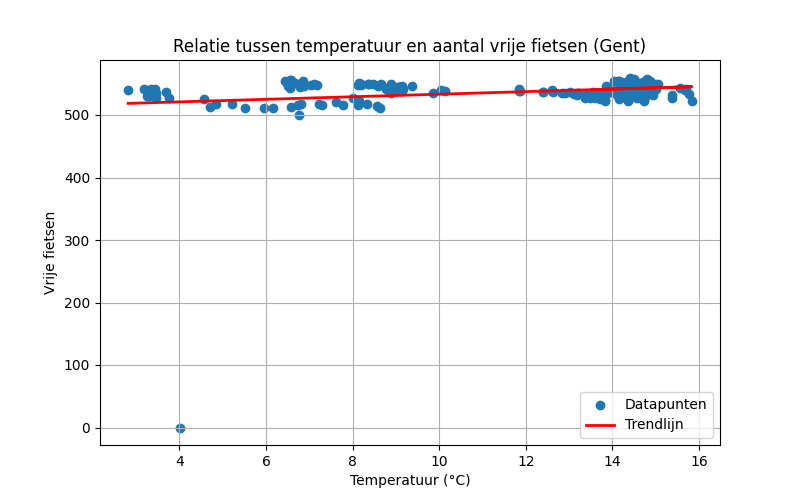
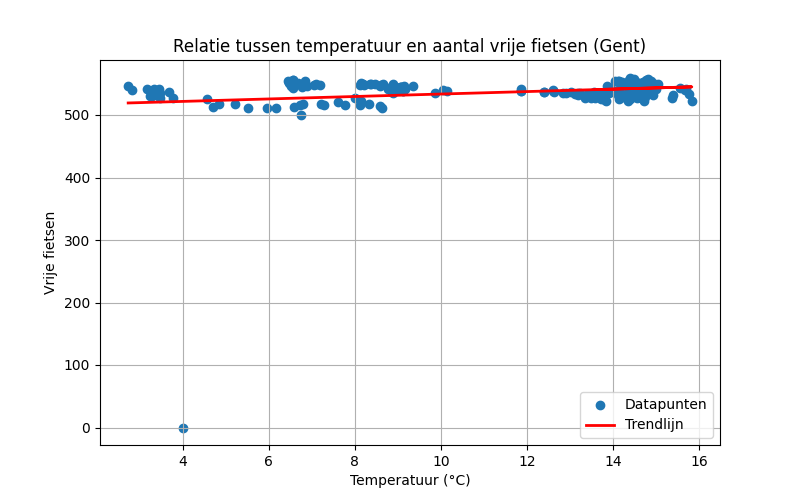
Automatische update 2025-11-17 23:00:11

diff --git a/reports/report.md b/reports/report.md
@@ -1,22 +1,22 @@
 # Data Workflow Rapport
 
-**Gegenereerd op:** 2025-11-17 22:45:07.957110
+**Gegenereerd op:** 2025-11-17 23:00:10.280772
 
 ## Grafiek: Vrije fietsen vs Temperatuur
 ![Fietsen vs Temp](fiets_vs_temp.png)
 
 ## Basisstatistieken
-- Gemiddelde temperatuur: 11.07 °C
-- Gemiddeld aantal vrije fietsen: 535
+- Gemiddelde temperatuur: 11.02 °C
+- Gemiddeld aantal vrije fietsen: 536
 - Gemiddeld aantal fietsen overdag (07-19u): 536
 - Gemiddeld aantal fietsen ’s nachts (19-07u): 535
-- Correlatie: 0.19
+- Correlatie: 0.18
 
 ## Vrije fietsen per weekdag
 
 | Weekdag | Min | Max | Gemiddelde |
 |---------|-----|-----|------------|
-| Maandag | 0 | 556 | 509 |
+| Maandag | 0 | 556 | 510 |
 | Dinsdag | 0 | 0 | 0 |
 | Woensdag | 0 | 0 | 0 |
 | Donderdag | 525 | 550 | 535 |
